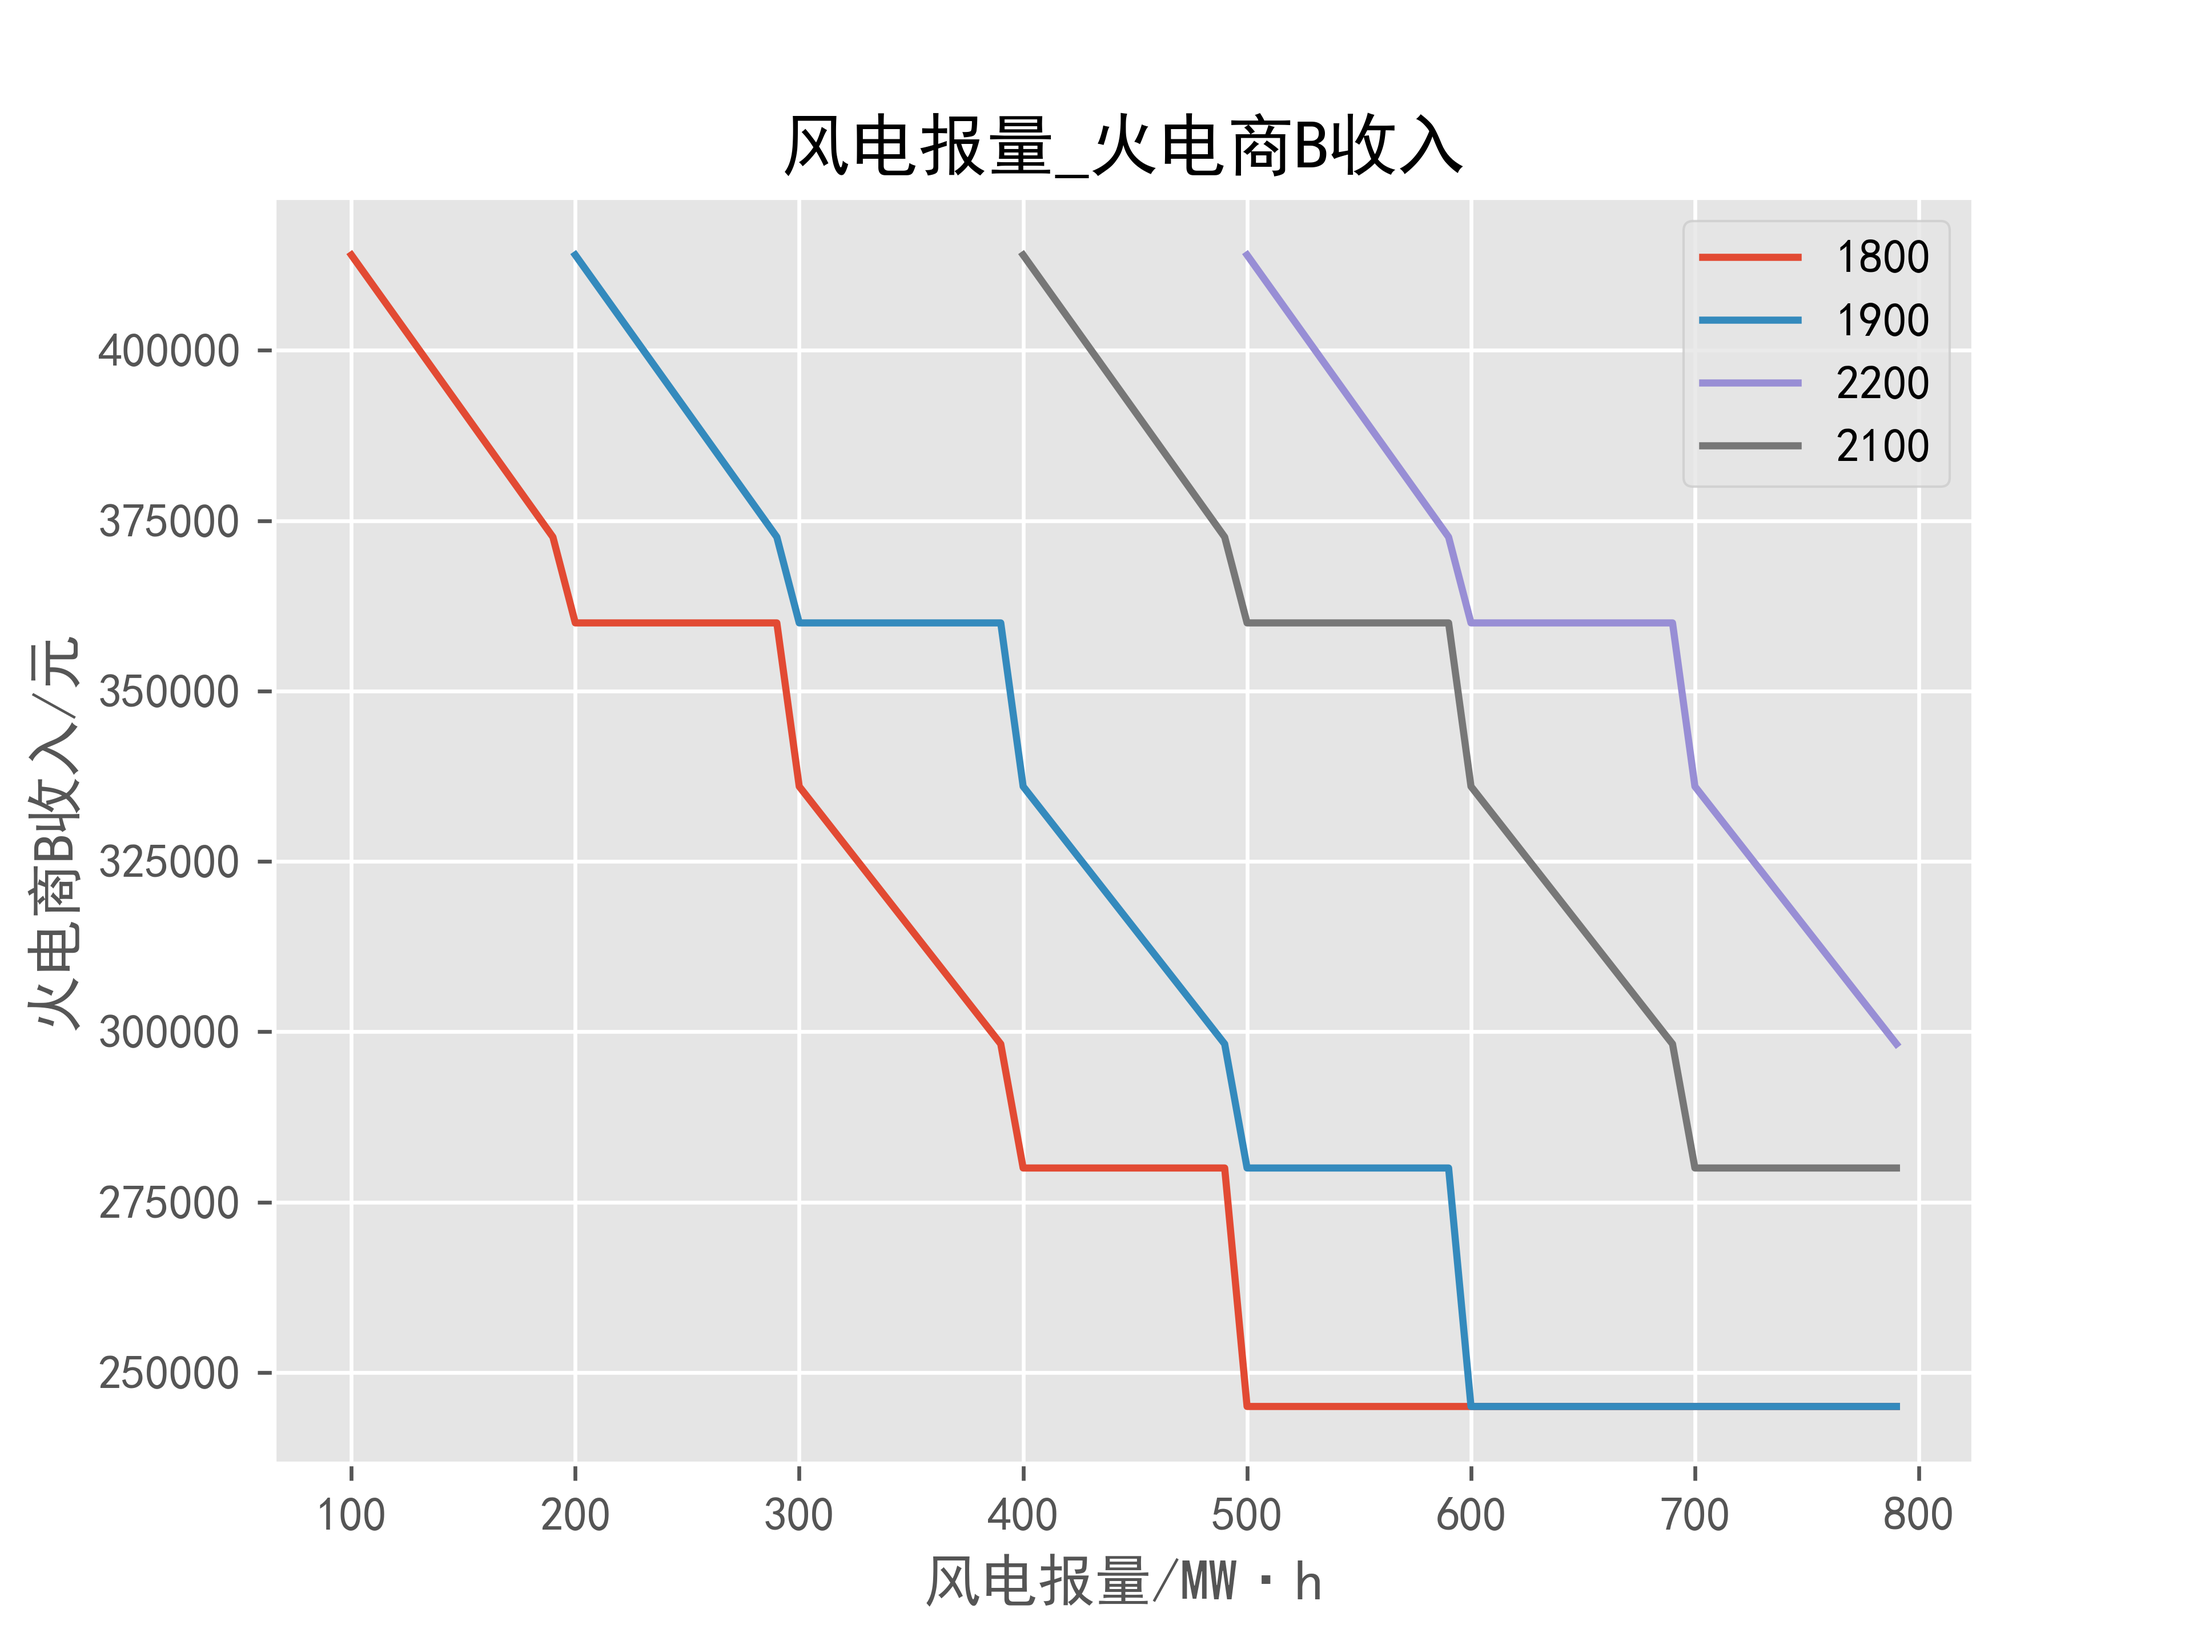
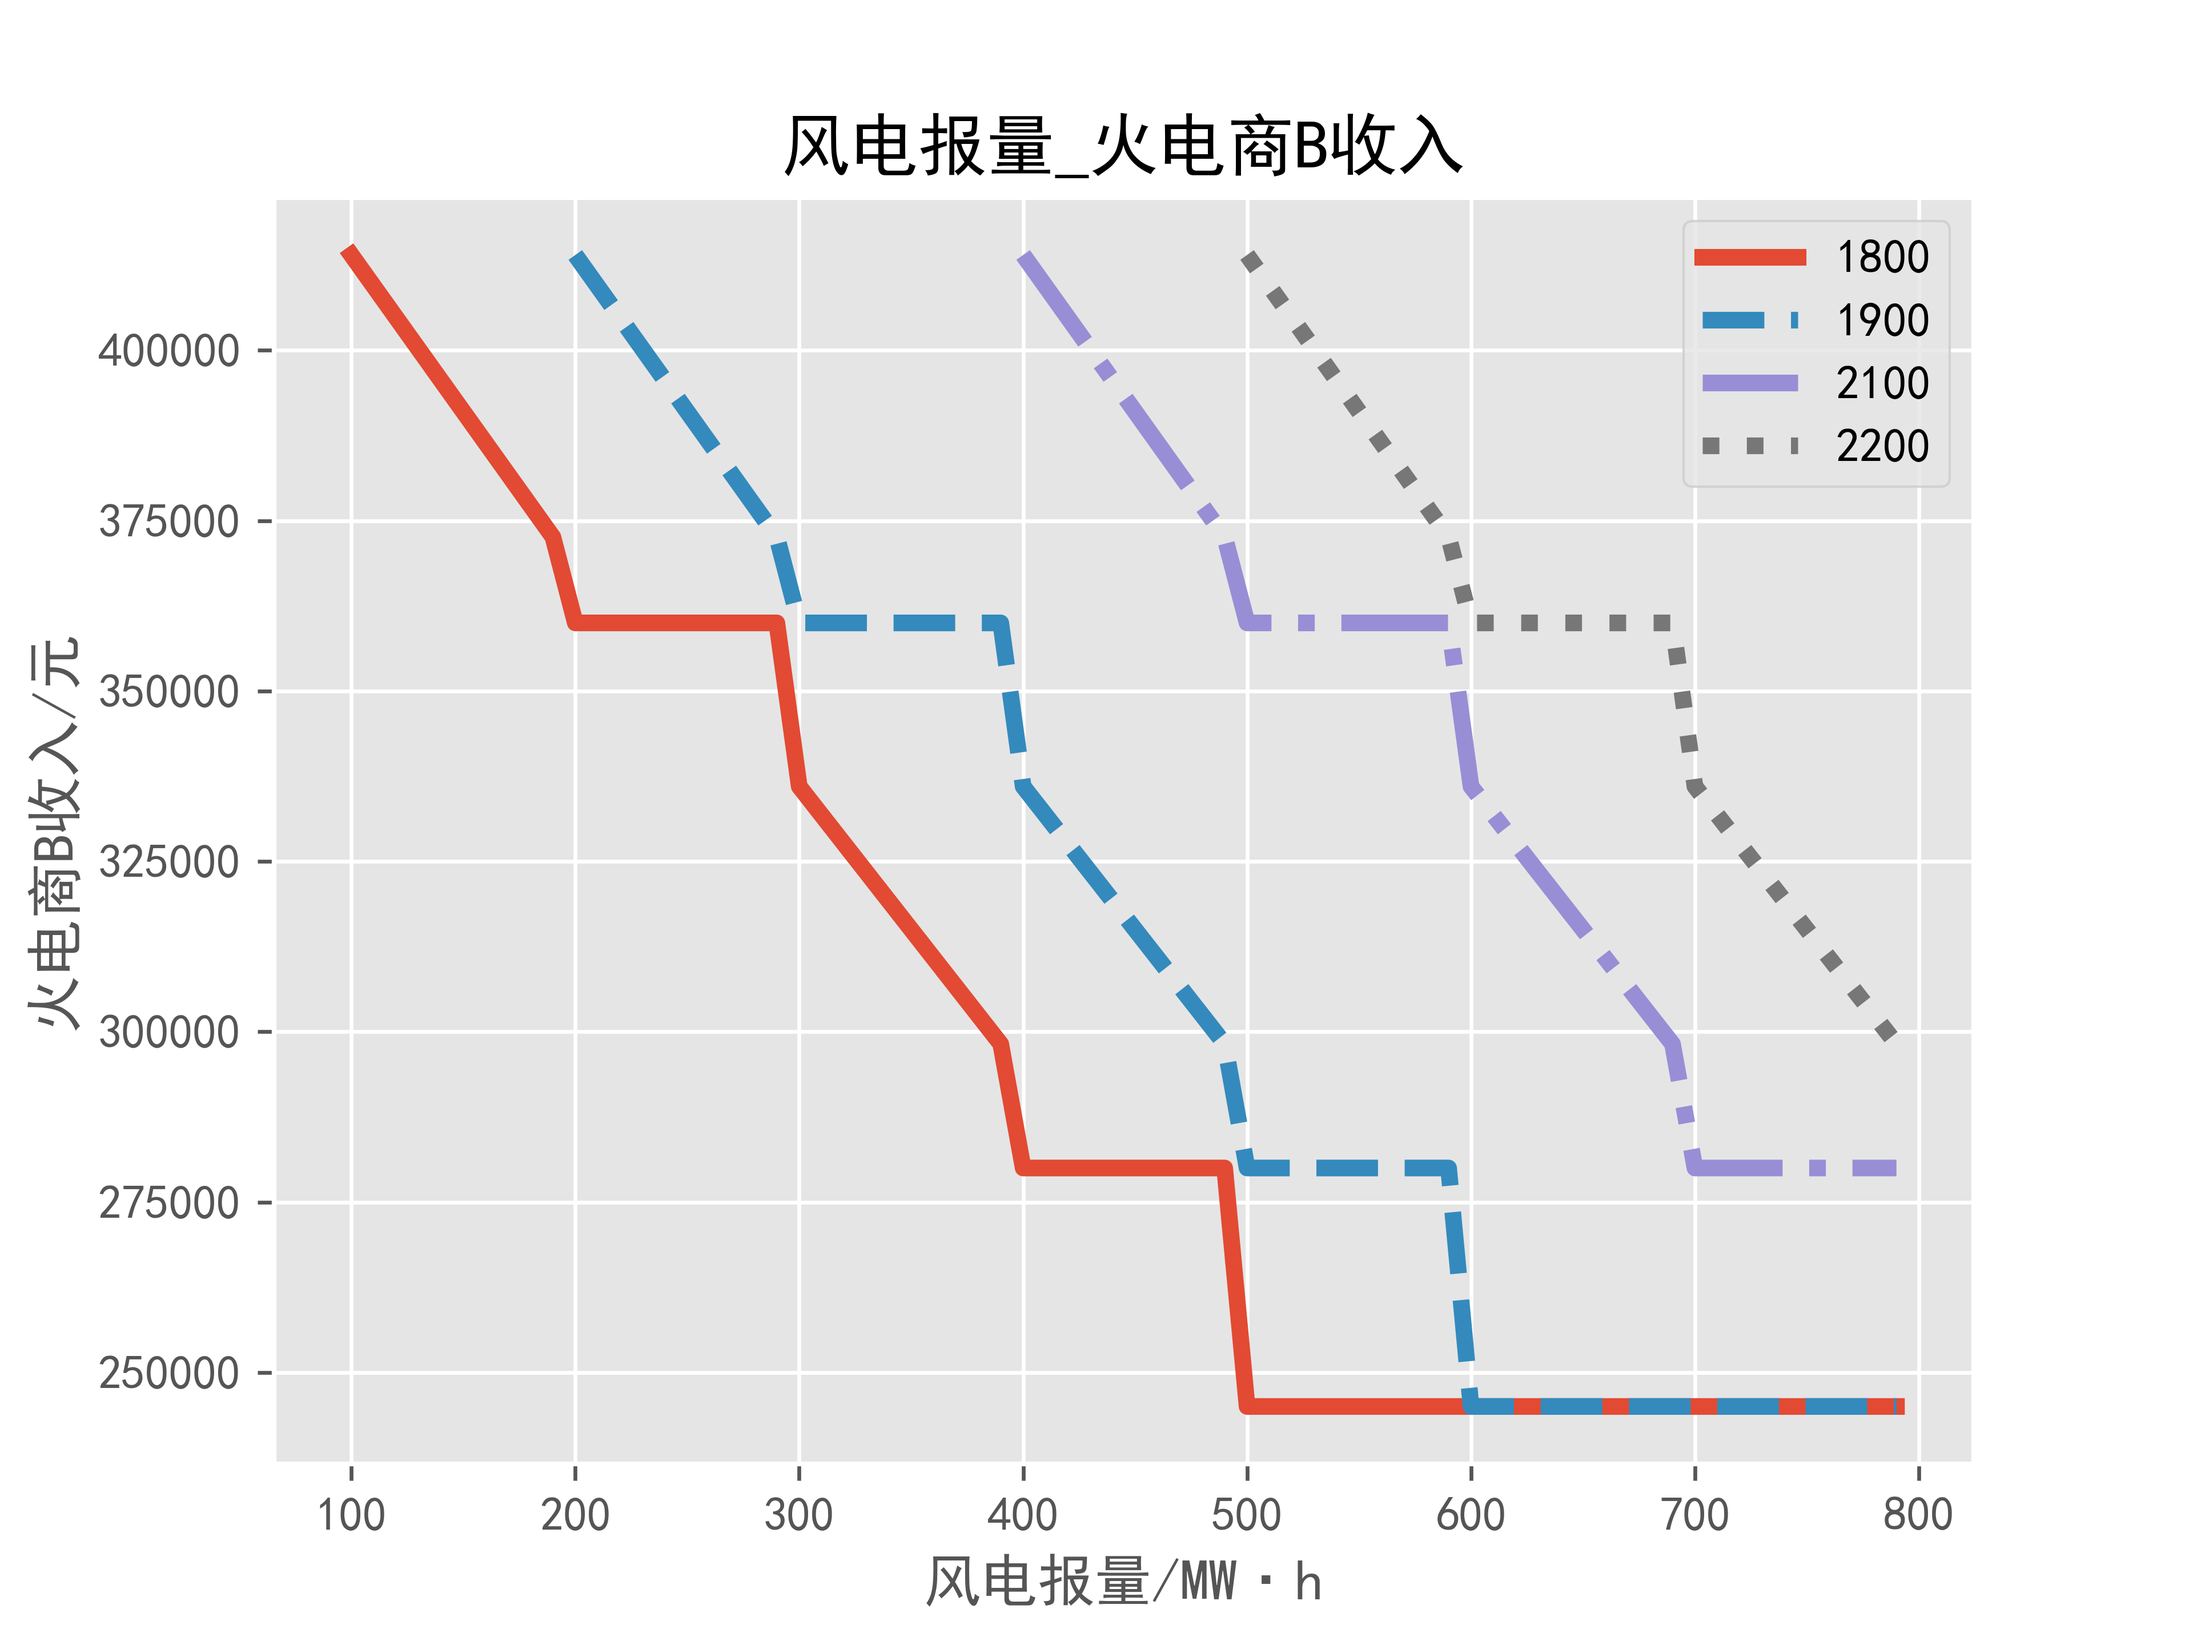
fix: 修复绘图乱序问题 feat: 增加线宽

diff --git a/maxmin.py b/maxmin.py
@@ -17,8 +17,14 @@ def export_fig(x,y,xlabel,ylabel,title,legends,save_path):
     plt.title(title)
     plt.xlabel(xlabel)
     plt.ylabel(ylabel)
+    line_style=[
+        "-",
+        "--",
+        "-.",
+        ":"
+    ]
     for i in range(len(x)):
-        plt.plot(x[i],y[i],label=legends[i])
+        plt.plot(x[i],y[i],line_style[i],linewidth=3.5,label=legends[i])
     plt.legend()
     plt.savefig(save_path,dpi=600)
     plt.clf()
